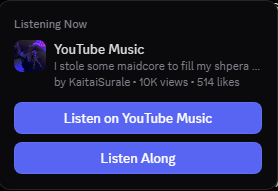
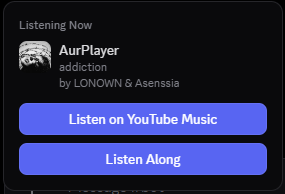
add options and topbar styles and status indicator assets

diff --git a/options/options.css b/options/options.css
@@ -453,6 +453,16 @@ body {
 .about-icon {
   width: 80px;
   height: 80px;
+  border-radius: 20px;
+  object-fit: cover;
+  box-shadow: 0 0 30px rgba(245, 180, 70, 0.35), 0 10px 25px rgba(0, 0, 0, 0.5);
+  border: 1px solid rgba(245, 180, 70, 0.2);
+  transition: transform 0.3s cubic-bezier(0.34, 1.56, 0.64, 1), box-shadow 0.3s ease, border-color 0.3s ease;
+}
+.about-icon:hover {
+  transform: translateY(-2px) scale(1.04);
+  box-shadow: 0 0 45px rgba(245, 180, 70, 0.55), 0 14px 30px rgba(0, 0, 0, 0.6);
+  border-color: rgba(245, 180, 70, 0.35);
 }
 .about-name {
   font-size: 24px;
@@ -481,7 +491,19 @@ body {
   justify-content: center;
 }
 .about-actions .btn {
-  padding: 10px 20px;
+  padding: 10px 22px;
+  border-radius: 12px;
+  transition: all 0.2s ease;
+}
+.about-actions .btn-secondary:hover {
+  box-shadow: 0 0 16px rgba(255, 255, 255, 0.12);
+  border-color: rgba(255, 255, 255, 0.25);
+}
+.about-actions .btn-primary {
+  box-shadow: 0 0 16px var(--accent-glow);
+}
+.about-actions .btn-primary:hover {
+  box-shadow: 0 0 26px var(--accent-glow);
 }
 .update-status {
   font-size: 13px;

diff --git a/topbar/topbar.css b/topbar/topbar.css
@@ -42,6 +42,7 @@ body {
 .app-icon {
   width: 18px;
   height: 18px;
+  border-radius: 4px;
   flex-shrink: 0;
   object-fit: contain;
   pointer-events: none;
